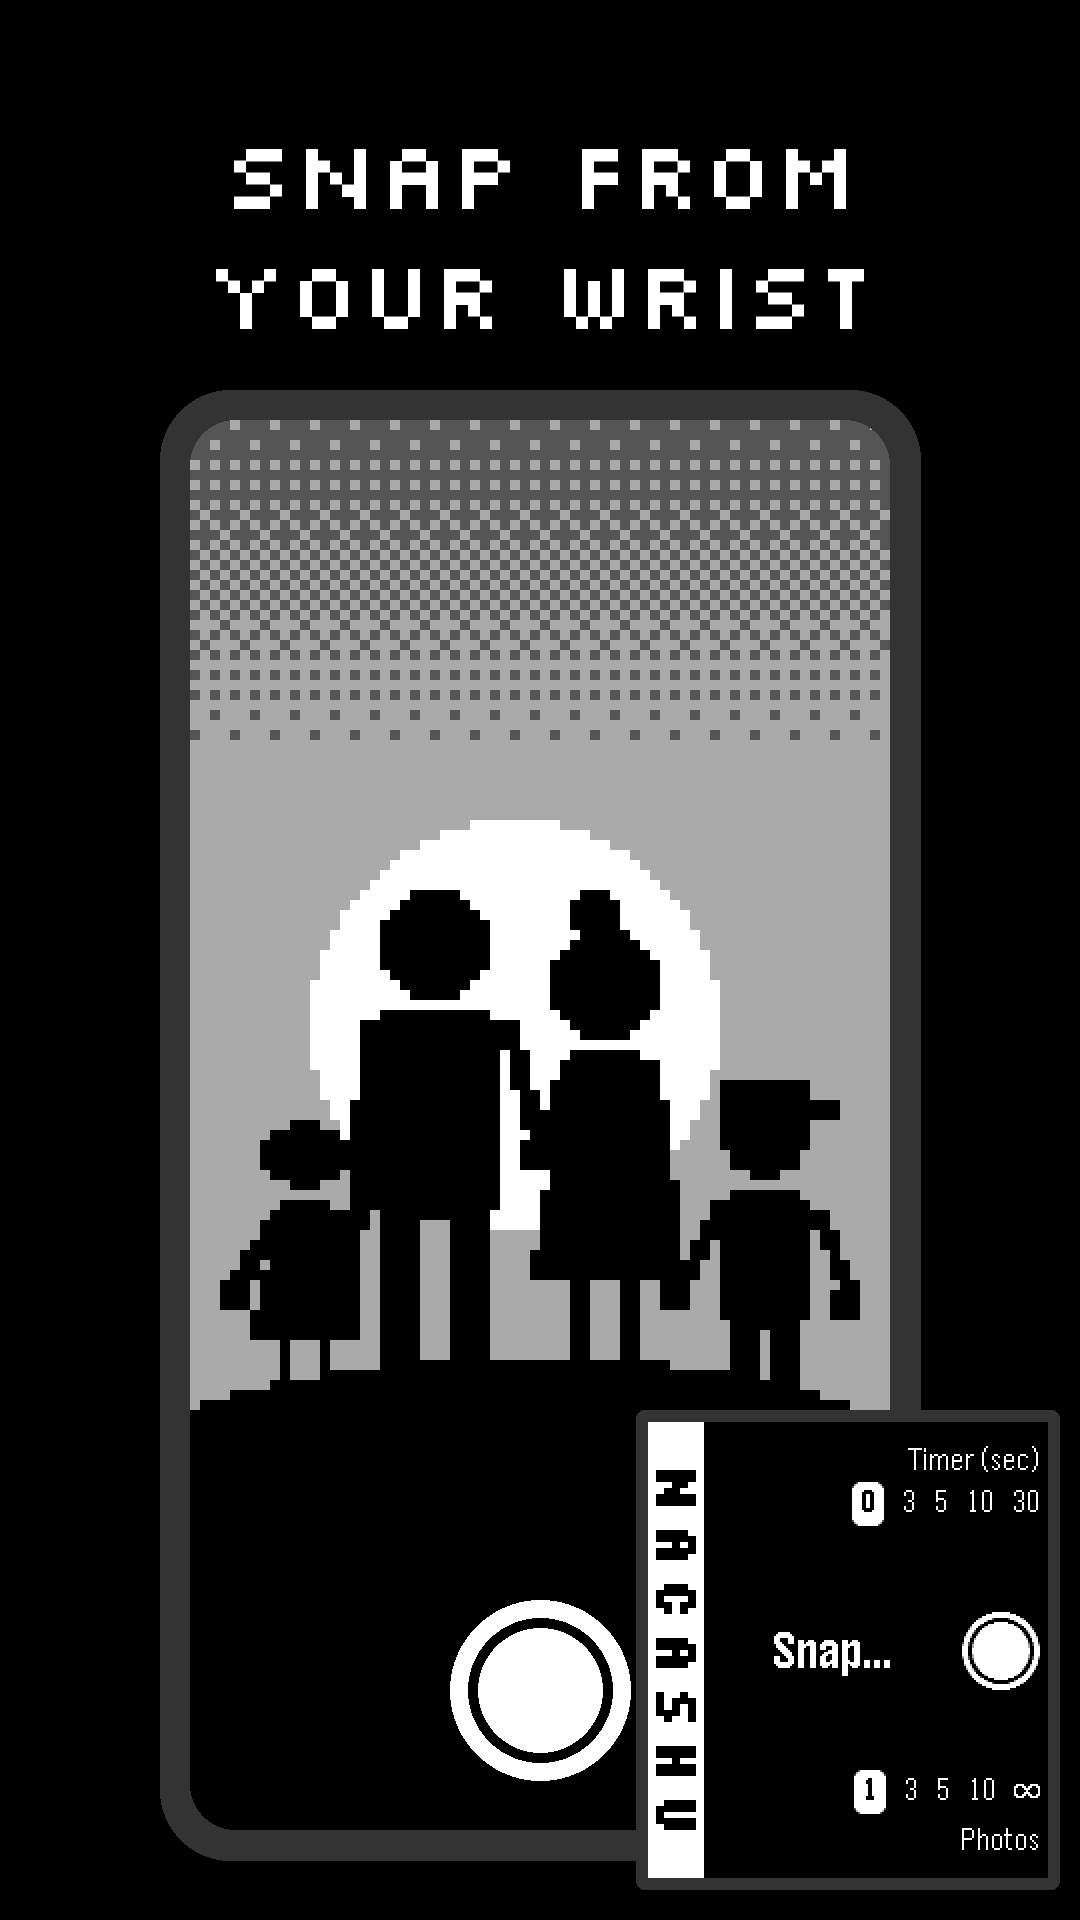
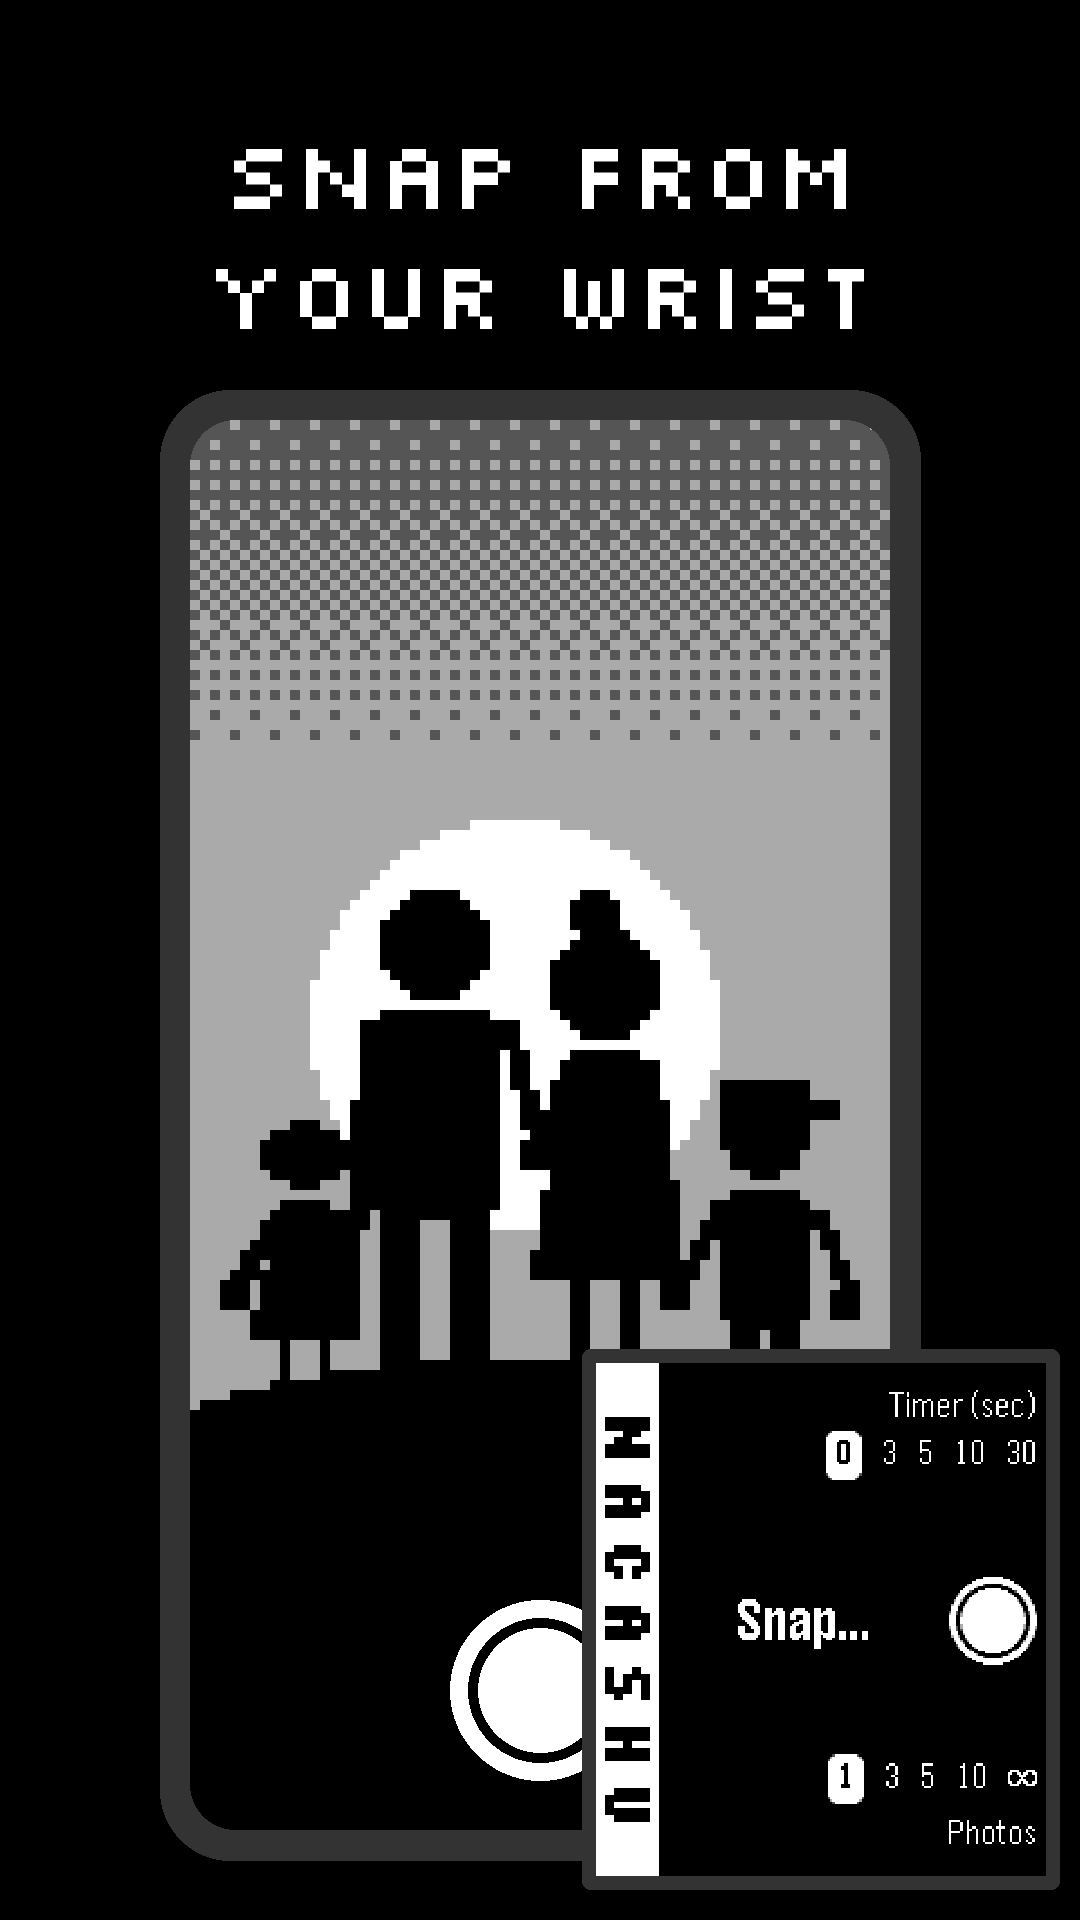
Show a couple in front of a mountain in Play screenshot 3
Screenshot 3 now shows two pictograms (as in screenshot 1) holding hands
and waving at the camera a few metres away, with a snowy mountain, a low
sun, long shadows and focus brackets. It replaces the plain mountain
scene, so 1 and 3 no longer repeat the same view.

Both screenshots keep the shutter centred with the watch in front of it.
The watch scale can now be fractional, so the square watch in 1 (2.25x)
and the round one in 3 (1.85x) look about the same size.

Claude-Session: https://claude.ai/code/session_016qf2GfUNUhdNcdQ5UVbLnA

Changed region(s): [[0.5194, 0.6875, 0.9778, 1.0], [0.8861, 0.8125, 0.9778, 0.9688], [0.7639, 0.9062, 0.8556, 0.9688]]

diff --git a/watch/tools/make_store_images.py b/watch/tools/make_store_images.py
@@ -7,9 +7,10 @@
 # Also draws docs/header.png (top of the README) and docs/pebble-banner.png (720x320, for the
 # Pebble appstore listing), and the appstore's icons: pebble-icon-80.png and pebble-icon-144.png
 # (watchapp) and inverted-pebble-companion-icon-144.png (the Android companion, drawn inverted).
+import math
 import sys
 from pathlib import Path
-from PIL import Image, ImageDraw, ImageFont
+from PIL import Image, ImageDraw, ImageFilter, ImageFont
 
 ROOT = Path(__file__).resolve().parents[2]
 DOCS = ROOT / "docs"
@@ -45,29 +46,6 @@ def watch(img, scale, round_screen=False, pad=None):
         d.rounded_rectangle((0, 0, w - 1, h - 1), radius=4 * scale, fill=DARK)
         body.paste(img, (pad, pad))
     return body
-
-
-def scene(w, h, cell):
-    """A dithered camera viewfinder: bright sky fading down, a grey hill, dark ground."""
-    gw, gh = w // cell, h // cell
-    small = Image.new("RGB", (gw, gh), BLACK)
-    px = small.load()
-    hill_top = int(gh * 0.48)
-    for y in range(gh):
-        for x in range(gw):
-            t = BAYER[y % 4][x % 4] / 16
-            if y < gh * 0.45:
-                level = 1 - y / (gh * 0.45)
-                px[x, y] = WHITE if level > t else BLACK
-            ground = gh * 0.7
-            hx = (x - gw * 0.3) / (gw * 0.35)
-            hill = hill_top + int(gh * 0.12 * hx * hx)
-            if y >= hill and y < ground:
-                px[x, y] = GREY
-            if y >= ground:
-                level = 0.5 - (y - ground) / (gh - ground) * 0.5
-                px[x, y] = GREY if level > t else (25, 25, 25)
-    return small.resize((gw * cell, gh * cell), Image.NEAREST)
 
 
 def family(w, h, cell):
@@ -144,6 +122,127 @@ def family(w, h, cell):
     return small.resize((gw * cell, gh * cell), Image.NEAREST)
 
 
+def couple(w, h, cell):
+    """Two pictograms (a man and a woman, as in family()) holding hands and waving at the camera
+    a few metres away, in front of a snowy mountain, the sun low on the left. Their shadows fall
+    towards the camera; white focus brackets frame them. Drawn on a grid of cell px squares."""
+    gw, gh = w // cell, h // cell
+    small = Image.new("RGB", (gw, gh), LIGHT)
+    px, d = small.load(), ImageDraw.Draw(small)
+    horizon, feet = 80, 94
+
+    def dith(x, y, level, hi, lo):
+        px[x, y] = hi if level > BAYER[y % 4][x % 4] / 16 else lo
+
+    def box(x0, y0, x1, y1, colour=BLACK, draw=d):
+        draw.rectangle((min(x0, x1), min(y0, y1), max(x0, x1), max(y0, y1)), fill=colour)
+
+    for y in range(gh):  # sky: sparse grey dots clearing to flat pale grey
+        for x in range(gw):
+            dith(x, y, 0.82 + 0.18 * y / (horizon - 30), LIGHT, GREY)
+    sun_x, sun_y, sun_r = 12, 14, 6
+    d.ellipse((sun_x - sun_r, sun_y - sun_r, sun_x + sun_r, sun_y + sun_r), fill=WHITE)
+    for x in range(gw):  # far ridge
+        for y in range(horizon - 12 - int(4 * math.sin(x / 6 + 1) + 3 * math.sin(x / 2.7)), horizon + 1):
+            dith(x, y, 0.85, LIGHT, GREY)
+    peak_x, peak_y, spread, snow = 38, 18, 44, 16  # the mountain: snow cap, lit left face, shaded right
+    for x in range(gw):
+        t = abs(x - peak_x) / spread
+        if t > 1:
+            continue
+        jag = 1.5 * math.sin(x * 1.3 + 0.7) + math.sin(x * 2.9 + 1.4) if t > 0.08 else 0
+        for y in range(max(0, int(peak_y + (horizon - peak_y) * t ** 1.2 + jag)), horizon + 1):
+            lit = x <= peak_x + (y - peak_y) * 0.35
+            if y < peak_y + snow + int(2 * math.sin(x * 1.1 + 0.7)):
+                px[x, y] = WHITE if lit or BAYER[y % 4][x % 4] < 8 else LIGHT
+            elif lit:
+                dith(x, y, 0.62, LIGHT, GREY)
+            else:
+                dith(x, y, 0.55, GREY, DARK)
+    for y in range(horizon + 1, gh):  # meadow, darkening towards the camera
+        for x in range(gw):
+            if y == horizon + 1:
+                px[x, y] = GREY
+            elif y < horizon + 22:
+                dith(x, y, 0.8 - (y - horizon) / 45, LIGHT, GREY)
+            else:
+                dith(x, y, 0.5, GREY, DARK)
+
+    man, woman, clasp_x = 20, 36, 28
+
+    def people(draw):
+        """Limbs are 2 cells thick."""
+        def row(x, y, side):  # one 2-cell slice of a slanted arm
+            box(x, y, x + side, y, draw=draw)
+
+        def wave(x, y, side):  # upper arm up and out, then the forearm up beside the head
+            elbow = (x + side * 3, y - 2)
+            for a, b in ((((x, y) if side > 0 else (x - 1, y)), elbow), (elbow, (elbow[0] + side * 2, elbow[1] - 6))):
+                n = max(abs(b[0] - a[0]), abs(b[1] - a[1]))
+                for i in range(n + 1):
+                    cx, cy = round(a[0] + (b[0] - a[0]) * i / n), round(a[1] + (b[1] - a[1]) * i / n)
+                    box(cx, cy, cx + 1, cy + 1, draw=draw)
+
+        # The man: round head, sloped shoulders, rectangle torso, two legs.
+        head, top = feet - 27 + 3, feet - 27 + 8
+        legs = top + round(27 * 0.42)
+        draw.ellipse((man - 3, head - 3, man + 3, head + 3), fill=BLACK)
+        box(man - 2, top, man + 2, top, draw=draw)
+        box(man - 3, top + 1, man + 3, top + 1, draw=draw)
+        box(man - 4, top + 2, man + 4, legs, draw=draw)
+        box(man - 3, legs, man - 1, feet, draw=draw)
+        box(man + 1, legs, man + 3, feet, draw=draw)
+        wave(man - 5, top + 3, -1)
+        # The woman: round head, A-line dress, two legs.
+        w_head, w_top = feet - 25 + 3, feet - 25 + 8
+        w_legs = w_top + round(25 * 0.5)
+        draw.ellipse((woman - 3, w_head - 3, woman + 3, w_head + 3), fill=BLACK)
+        rows = w_legs - w_top
+        for i in range(rows + 1):
+            half = 2 + 4 * i / rows
+            box(round(woman - half), w_top + i, round(woman + half), w_top + i, draw=draw)
+        box(woman - 3, w_legs, woman - 2, feet, draw=draw)
+        box(woman + 2, w_legs, woman + 3, feet, draw=draw)
+        wave(woman + 3, w_top + 1, 1)
+        # Hand in hand: his arm runs straight from the shoulder to the clasp, hers follows her dress.
+        clasp_y = legs - 1
+        n = clasp_y - (top + 2)
+        for i in range(n + 1):
+            row(round(man + 5 + (clasp_x - man - 6) * i / n), top + 2 + i, 1)
+        box(clasp_x - 1, clasp_y, clasp_x, clasp_y + 1, draw=draw)
+        box(woman - 2, w_top, woman - 4, w_top + 1, draw=draw)
+        for i in range(clasp_y - w_top + 2):
+            x = round(woman - (4 + 4 * i / rows)); row(x, w_top + i, -1)
+        box(x, clasp_y, clasp_x, clasp_y + 1, draw=draw)
+
+    # A lighter halo around the pair keeps their arms readable against the dither.
+    mask = Image.new("RGB", (gw, gh), WHITE)
+    people(ImageDraw.Draw(mask))
+    ink = mask.convert("L").point(lambda v: 255 if v < 128 else 0)
+    halo = ink.filter(ImageFilter.MaxFilter(5)).load()
+    for y in range(feet + 1):
+        for x in range(gw):
+            if halo[x, y] and px[x, y] != WHITE:
+                dith(x, y, 0.88, LIGHT, GREY)
+    for cx in (man, woman):  # long shadows, cast away from the sun: towards the camera and right
+        for r in range(6):
+            for x in range(cx - 3 + 2 * r, cx - 3 + 2 * r + max(2, 7 - r // 2)):
+                px[x, feet + 1 + r] = GREY
+    people(d)
+    # Focus brackets around the pair, kept clear of the watch in the corner.
+    x0, y0, x1, y1 = ink.getbbox()
+    x0, y0, x1, y1 = max(1, x0 - 5), max(1, y0 - 5), min(gw - 2, x1 + 5), feet + 3
+    right = x1 - 5
+    while math.hypot(x1 - 60, y1 - 120) < 31 and x1 > right:
+        x1 -= 1
+    while math.hypot(x1 - 60, y1 - 120) < 31:
+        y1 -= 1
+    for cx, cy, sx, sy in ((x0, y0, 1, 1), (x1, y0, -1, 1), (x0, y1, 1, -1), (x1, y1, -1, -1)):
+        box(cx, cy, cx + sx * 4, cy, WHITE)
+        box(cx, cy, cx, cy + sy * 4, WHITE)
+    return small.resize((gw * cell, gh * cell), Image.NEAREST)
+
+
 def ink_left(text, f):
     """How far right of x the first lit pixel of text lands (the font's left side bearing)."""
     probe = Image.new("L", (int(f.getlength(text)) + 200, f.size * 2))
@@ -156,34 +255,30 @@ def centred(d, y, text, f, w, fill=WHITE):
     d.text((x, y), text, font=f, fill=fill)
 
 
-def phone_screenshot(lines, shot, path, round_screen=False, view=None):
-    """view draws the camera viewfinder. With one, the watch is drawn smaller in the bottom right
-    corner, in front of the shutter, so more of the view shows."""
+def phone_screenshot(lines, shot, path, view, watch_scale, round_screen=False):
+    """A phone running its camera app, view drawing the viewfinder on 10 px cells, with the watch
+    in the bottom right corner, in front of the shutter. watch_scale may be fractional, so the
+    square and round watches can look the same size."""
     W, H = 1080, 1920  # 9:16; Play rejects anything longer than 2:1
     img = Image.new("RGB", (W, H), BLACK)
     d = ImageDraw.Draw(img)
     big = font(pixel_font, 96)
     for i, line in enumerate(lines):
         centred(d, 110 + i * 120, line, big, W)
-    # Phone running the camera app.
     px, py, pw, ph = 160, 390, 760, 1470
     d.rounded_rectangle((px, py, px + pw, py + ph), radius=70, fill=DARK)
-    small_watch = view is not None
-    view = view(pw - 60, ph - 60, 10) if small_watch else scene(pw - 60, ph - 60, 15)
+    view = view(pw - 60, ph - 60, 10)
     mask = Image.new("L", view.size, 0)
     ImageDraw.Draw(mask).rounded_rectangle((0, 0, view.width - 1, view.height - 1), radius=45, fill=255)
     img.paste(view, (px + 30, py + 30), mask)
-    cx, cy = px + pw // 2, py + ph - 170  # centred, as on every phone; a small watch may cover part of it
+    cx, cy = px + pw // 2, py + ph - 170  # the shutter, centred as on every phone
     d.ellipse((cx - 90, cy - 90, cx + 90, cy + 90), fill=WHITE)
     d.ellipse((cx - 72, cy - 72, cx + 72, cy + 72), fill=BLACK)
     d.ellipse((cx - 62, cy - 62, cx + 62, cy + 62), fill=WHITE)
-    # The watch, overlapping the phone's right edge.
-    if small_watch:
-        w = watch(screen(shot, 2), 2, round_screen)
-        img.paste(w, (W - w.width - 20, H - w.height - 30), w)
-    else:
-        w = watch(screen(shot, 3), 3, round_screen)
-        img.paste(w, (W - w.width - 10, py + ph - w.height - 300), w)
+    shot = screen(shot, 1)
+    shot = shot.resize((round(shot.width * watch_scale), round(shot.height * watch_scale)), Image.NEAREST)
+    w = watch(shot, round(watch_scale), round_screen, pad=round(6 * watch_scale))
+    img.paste(w, (W - w.width - 20, H - w.height - 30), w)
     img.save(path, optimize=True)
 
 
@@ -279,8 +374,9 @@ out.mkdir(parents=True, exist_ok=True)
 (out / "phoneScreenshots").mkdir(exist_ok=True)
 Image.open(DOCS / "icon.png").convert("RGB").resize((512, 512), Image.NEAREST).save(out / "icon.png", optimize=True)
 feature_graphic(out / "featureGraphic.png")
-phone_screenshot(["SNAP FROM", "YOUR WRIST"], "emery-2-snap", out / "phoneScreenshots/1-snap.png", view=family)
-phone_screenshot(["YOUR PHONE'S", "NATIVE CAMERA"], "gabbro-1-ready", out / "phoneScreenshots/3-processing.png", round_screen=True)
+phone_screenshot(["SNAP FROM", "YOUR WRIST"], "emery-2-snap", out / "phoneScreenshots/1-snap.png", family, 2.25)
+phone_screenshot(["YOUR PHONE'S", "NATIVE CAMERA"], "gabbro-1-ready", out / "phoneScreenshots/3-processing.png", couple, 1.85,
+                 round_screen=True)
 def pebble_icon(size, path, invert=False):
     """The 32x32 icon at the biggest whole-number scale that fits, centred on a square of size.
     invert swaps black and white (the grey straps stay grey)."""
